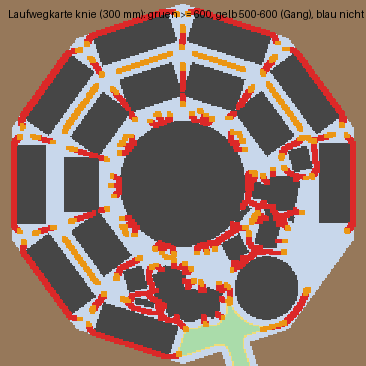
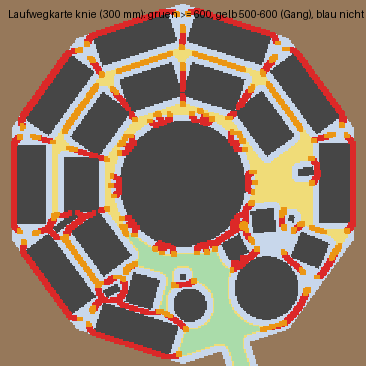
N-UNIFY-AUTOBAHN U5: Laufwegkarte ring_b2 nach der Technik (Knie rot 45, Kopf rot 8, 0 nicht erreichbar), Bilder technik-05 und section-sumpf1-05, Check-Texte

diff --git a/scripts/check_oasis_soll.py b/scripts/check_oasis_soll.py
@@ -171,13 +171,13 @@ def komponenten_hoehen(soll):
     zeilen.append(("nachspeise_ventil", "Rohrachse ueber Spiegel", n["ventil_h"], h("fish", "rand_ueber_fussboden_mm") - h("fish", "wsp_ueber_fussboden_mm") + 60, "Rand - Wsp + 60"))
     zeilen.append(("notluftpumpe", "Schlauch-Schleife (>= Rand + 50)", par("notluftpumpe")["schleife_z"], h("fish", "rand_ueber_fussboden_mm") + 100, "Rand + 100"))
     zeilen.append(("venturi_belueffter", "Achse ueber Fischtank-Spiegel", par("venturi_belueffter")["achse_ueber_spiegel"], 1650 - 400 - h("fish", "wsp_ueber_fussboden_mm"), "Lage-Probe Modell-Z 1650 - Fussboden 400 - Wsp"))
-    print("Komponenten (U2, Hoehenparameter der neuen Bauteile; Gesamtmodell ausstehend bis U4/U5, nicht Teil der Messung oben)")
+    print("Komponenten (U2, Hoehenparameter der neuen Bauteile aus den Komponentendateien, nicht Teil der Messung oben)")
     print("%-28s %-34s %8s %8s  %s" % ("Komponente", "Hoehenparameter", "Wert", "Soll", "Urteil"))
     for nm, was, ist, sl, why in zeilen:
         print("%-28s %-34s %8g %8g  %s (%s)" % (nm, was, ist, sl, "Komponente ok" if abs(ist - sl) < 1e-9 else "ABWEICHUNG Komponente", why))
     for nm in ("tauchpumpe_modul", "schlamm_sammelbehaelter", "regentank_5m3", "permakultur_modul"):
         print("%-28s %-34s %8s %8s  Komponente gebaut, Quelle legt keine Hoehe fest (stufe_status offen) / Hub aus Soll-Datei" % (nm, "-", "-", "-"))
-    print("  Gesamtmodell: ausstehend (Komponenten in dome-ring_b2.sc erst ab U4/U5)")
+    print("  Gesamtmodell: gesetzt ab U5 (Zaehlung und Wasserspiegel oben; Hoehenparameter hier aus den Komponentendateien)")
 
 
 def main():

diff --git a/docs/walkway-map-ring_b2.md b/docs/walkway-map-ring_b2.md
@@ -4,63 +4,60 @@ Erzeugt von `scripts/check_walkways_voll.py` aus `scripts/dome-script.json` (Ras
 
 ## Scheibe knie (0.3 m ueber Boden)
 
-### rot: 53 Engstellen
+### rot: 45 Engstellen
 
 - Weite ca. 100 mm bei -180 Grad / 5675 mm (Laenge ca. 6450 mm): Beet_aussen_800:2 x Wand
 - Weite ca. 100 mm bei -170 Grad / 2256 mm (Laenge ca. 500 mm): Tisch_innen:2 Fuss x Zentralpool
 - Weite ca. 100 mm bei -161 Grad / 2878 mm (Laenge ca. 350 mm): Beet_innen_933:2 x Beet_innen_933:3
-- Weite ca. 100 mm bei -161 Grad / 3510 mm (Laenge ca. 1100 mm): Beet_innen_933:2 x Beet_innen_933:3
+- Weite ca. 100 mm bei -161 Grad / 4159 mm (Laenge ca. 5600 mm): Beet_aussen_800:2 x Beet_aussen_800:3 | Beet_aussen_800:2 x Notluftpumpe:1
 - Weite ca. 100 mm bei -144 Grad / 5696 mm (Laenge ca. 5350 mm): Beet_aussen_800:3 x Wand
 - Weite ca. 100 mm bei -141 Grad / 2276 mm (Laenge ca. 1650 mm): Tisch_innen:3 Fuss x Tisch_innen:3 Fuss | Tisch_innen:3 Fuss x Zentralpool
+- Weite ca. 100 mm bei -119 Grad / 4487 mm (Laenge ca. 5750 mm): Beet_aussen_800:3 x Beet_aussen_800:4 | Beet_aussen_800:3 x Geblaese_Luft:2
 - Weite ca. 100 mm bei -108 Grad / 5660 mm (Laenge ca. 4250 mm): Beet_aussen_800:4 x Wand
 - Weite ca. 100 mm bei -106 Grad / 2263 mm (Laenge ca. 1800 mm): Tisch_innen:4 Fuss x Tisch_innen:4 Fuss | Tisch_innen:4 Fuss x Zentralpool
-- Weite ca. 100 mm bei -106 Grad / 2943 mm (Laenge ca. 400 mm): Pumpe_gross:3 x Tank_gross_t3:1
-- Weite ca. 100 mm bei -104 Grad / 4105 mm (Laenge ca. 8250 mm): Beet_aussen_800:4 x Booster_gross:3 | Beet_aussen_800:4 x Booster_gross:4
-- Weite ca. 100 mm bei -97 Grad / 2744 mm (Laenge ca. 450 mm): Pumpe_gross:3 x Tank_gross_t3:1
-- Weite ca. 100 mm bei -91 Grad / 2775 mm (Laenge ca. 450 mm): Pumpe_gross:3 x Tank_gross_t3:1
-- Weite ca. 100 mm bei -88 Grad / 2978 mm (Laenge ca. 450 mm): Pumpe_gross:3 x Ringstuetze_d75_B:1
-- Weite ca. 100 mm bei -87 Grad / 3380 mm (Laenge ca. 900 mm): Drittbecken x Ringstuetze_d75_B:1 | Drittbecken x Tank_gross_t3:1
-- Weite ca. 100 mm bei -82 Grad / 4625 mm (Laenge ca. 550 mm): Drittbecken x Pumpe_klein:2
-- Weite ca. 100 mm bei -80 Grad / 3580 mm (Laenge ca. 650 mm): Drittbecken x Pumpe_klein:1 | Drittbecken x Tank_klein:1
-- Weite ca. 100 mm bei -75 Grad / 4578 mm (Laenge ca. 350 mm): Pumpe_klein:2 x Tank_klein:1
-- Weite ca. 100 mm bei -69 Grad / 3877 mm (Laenge ca. 1950 mm): Pumpe_klein:1 x Tank_klein:1 | Pumpe_klein:1 x Zweitbecken
-- Weite ca. 100 mm bei -56 Grad / 2198 mm (Laenge ca. 4650 mm): Booster_gross:2 x Puffer_Klein:1 | Booster_gross:2 x Tisch_innen:6 Fuss
-- Weite ca. 100 mm bei -47 Grad / 3291 mm (Laenge ca. 5050 mm): Puffer_Klein:1 x Pumpe_klein:4 | Puffer_Klein:1 x Ringstuetze_d75_B:2
-- Weite ca. 100 mm bei -31 Grad / 3756 mm (Laenge ca. 300 mm): Pumpe_klein:4 x Tank_klein:2
-- Weite ca. 100 mm bei -15 Grad / 2772 mm (Laenge ca. 9500 mm): Booster_gross:1 x Booster_gross:2 | Booster_gross:1 x Pegelschacht_Podest:1
+- Weite ca. 100 mm bei -53 Grad / 3285 mm (Laenge ca. 2650 mm): Puffer_Klein:1 x Ringstuetze_d75_B:2 | Puffer_Klein:1 x Zweitbecken
+- Weite ca. 100 mm bei -47 Grad / 2229 mm (Laenge ca. 7400 mm): Podest_Vortex:1 x Puffer_Klein:1 | Podest_Vortex:1 x Tisch_innen:6 Fuss
 - Weite ca. 100 mm bei -1 Grad / 5625 mm (Laenge ca. 6450 mm): Beet_aussen_800:5 x Wand
-- Weite ca. 100 mm bei 3 Grad / 2678 mm (Laenge ca. 500 mm): Pegelschacht_Podest:1 x Tank_gross:1
-- Weite ca. 100 mm bei 3 Grad / 3732 mm (Laenge ca. 1250 mm): Feinfilter:1 x Pumpe_gross:2 | Feinfilter:1 x Tank_gross:1
-- Weite ca. 100 mm bei 6 Grad / 2993 mm (Laenge ca. 400 mm): Pumpe_gross:2 x Tank_gross:1
+- Weite ca. 100 mm bei 1 Grad / 2175 mm (Laenge ca. 1550 mm): Tisch_innen:7 Fuss x Tisch_innen:7 Fuss | Tisch_innen:7 Fuss x Zentralpool
+- Weite ca. 100 mm bei 5 Grad / 4391 mm (Laenge ca. 1800 mm): Beet_aussen_800:5 x Geblaese_Luft:1
 - Weite ca. 100 mm bei 35 Grad / 5597 mm (Laenge ca. 5300 mm): Beet_aussen_800:6 x Wand
 - Weite ca. 100 mm bei 38 Grad / 2175 mm (Laenge ca. 1450 mm): Tisch_innen:8 Fuss x Tisch_innen:8 Fuss | Tisch_innen:8 Fuss x Zentralpool
 - Weite ca. 100 mm bei 54 Grad / 2796 mm (Laenge ca. 450 mm): Beet_innen_933:4 x Beet_innen_933:5
 - Weite ca. 100 mm bei 54 Grad / 3435 mm (Laenge ca. 1550 mm): Beet_innen_933:4 x Beet_innen_933:5
+- Weite ca. 100 mm bei 73 Grad / 5582 mm (Laenge ca. 4300 mm): Beet_aussen_800:7 x Wand
+- Weite ca. 100 mm bei 75 Grad / 2153 mm (Laenge ca. 1800 mm): Tisch_innen:9 Fuss x Tisch_innen:9 Fuss | Tisch_innen:9 Fuss x Zentralpool
+- Weite ca. 100 mm bei 90 Grad / 3425 mm (Laenge ca. 1350 mm): Beet_innen_933:5 x Beet_innen_933:6
+- Weite ca. 100 mm bei 91 Grad / 2775 mm (Laenge ca. 550 mm): Beet_innen_933:5 x Beet_innen_933:6
+- Weite ca. 100 mm bei 109 Grad / 2198 mm (Laenge ca. 1600 mm): Tisch_innen:10 Fuss x Tisch_innen:10 Fuss | Tisch_innen:10 Fuss x Zentralpool
+- Weite ca. 100 mm bei 110 Grad / 5598 mm (Laenge ca. 5150 mm): Beet_aussen_800:8 x Wand
+- Weite ca. 100 mm bei 127 Grad / 3495 mm (Laenge ca. 1150 mm): Beet_innen_933:1 x Beet_innen_933:6
+- Weite ca. 100 mm bei 128 Grad / 2815 mm (Laenge ca. 350 mm): Beet_innen_933:1 x Beet_innen_933:6
+- Weite ca. 100 mm bei 145 Grad / 5638 mm (Laenge ca. 6950 mm): Beet_aussen_800:1 x Wand
+- Weite ca. 100 mm bei 146 Grad / 2198 mm (Laenge ca. 1500 mm): Tisch_innen:1 Fuss x Tisch_innen:1 Fuss | Tisch_innen:1 Fuss x Zentralpool
+- Weite ca. 100 mm bei 163 Grad / 2847 mm (Laenge ca. 300 mm): Beet_innen_933:1 x Beet_innen_933:2
+- Weite ca. 100 mm bei 164 Grad / 3465 mm (Laenge ca. 950 mm): Beet_innen_933:1 x Beet_innen_933:2
 
-### gelb: 80 Engstellen
+### gelb: 74 Engstellen
 
-- Weite ca. 442 mm bei -110 Grad / 2958 mm (Laenge ca. 300 mm): Feinfilter:2 x Tank_gross_t3:1 | Pumpe_gross:3 x Tank_gross_t3:1
-- Weite ca. 442 mm bei -97 Grad / 2595 mm (Laenge ca. 150 mm): Pumpe_gross:3 x Tank_gross_t3:1
-- Weite ca. 442 mm bei 19 Grad / 4459 mm (Laenge ca. 500 mm): Beet_aussen_800:5 x Beet_aussen_800:6 | Beet_aussen_800:5 x Feinfilter:1
 - Weite ca. 442 mm bei 90 Grad / 5125 mm (Laenge ca. 350 mm): Beet_aussen_800:7 x Beet_aussen_800:8
-- Weite ca. 484 mm bei -161 Grad / 3937 mm (Laenge ca. 300 mm): Beet_innen_933:2 x Beet_innen_933:3
-- Weite ca. 484 mm bei -161 Grad / 4570 mm (Laenge ca. 150 mm): Beet_aussen_800:2 x Beet_aussen_800:3
 - Weite ca. 484 mm bei -161 Grad / 5202 mm (Laenge ca. 300 mm): Beet_aussen_800:2 x Beet_aussen_800:3
 - Weite ca. 484 mm bei -160 Grad / 5679 mm (Laenge ca. 150 mm): Beet_aussen_800:3 x Wand
+- Weite ca. 484 mm bei -143 Grad / 4315 mm (Laenge ca. 3300 mm): Beet_aussen_800:3 x Beet_innen_933:3 | Beet_aussen_800:3 x Geblaese_Luft:2
 - Weite ca. 484 mm bei -124 Grad / 5693 mm (Laenge ca. 150 mm): Beet_aussen_800:4 x Wand
+- Weite ca. 484 mm bei -123 Grad / 3363 mm (Laenge ca. 900 mm): Beet_innen_933:3 x Tank_gross_t3:1
+- Weite ca. 484 mm bei -99 Grad / 4427 mm (Laenge ca. 400 mm): Beet_aussen_800:4 x Drittbecken | Beet_aussen_800:4 x Tank_gross_t3:1
+- Weite ca. 484 mm bei -95 Grad / 3440 mm (Laenge ca. 200 mm): Drittbecken x Ringstuetze_d75_B:1
 - Weite ca. 484 mm bei -92 Grad / 5728 mm (Laenge ca. 200 mm): Beet_aussen_800:4 x Wand
-- Weite ca. 484 mm bei -86 Grad / 2884 mm (Laenge ca. 150 mm): Pumpe_gross:3 x Ringstuetze_d75_B:1
-- Weite ca. 484 mm bei -80 Grad / 3374 mm (Laenge ca. 200 mm): Drittbecken x Pumpe_klein:1
-- Weite ca. 484 mm bei -67 Grad / 3710 mm (Laenge ca. 200 mm): Pumpe_klein:1 x Tank_klein:1 | Pumpe_klein:1 x Zweitbecken
 - Weite ca. 484 mm bei -58 Grad / 5626 mm (Laenge ca. 800 mm): Wand x Zweitbecken
-- Weite ca. 484 mm bei -38 Grad / 2776 mm (Laenge ca. 250 mm): Puffer_Klein:1 x Tank_klein:2
-- Weite ca. 484 mm bei -35 Grad / 4057 mm (Laenge ca. 200 mm): Pumpe_klein:4 x Zweitbecken
-- Weite ca. 484 mm bei -26 Grad / 2650 mm (Laenge ca. 850 mm): Booster_gross:1 x Booster_gross:2 | Booster_gross:1 x Pumpe_klein:3
-- Weite ca. 484 mm bei 5 Grad / 2635 mm (Laenge ca. 150 mm): Pegelschacht_Podest:1 x Tank_gross:1
-- Weite ca. 484 mm bei 8 Grad / 2348 mm (Laenge ca. 350 mm): Pegelschacht_Podest:1 x Tisch_innen:7 Fuss | Tisch_innen:7 Fuss x Zentralpool
-- Weite ca. 484 mm bei 15 Grad / 3390 mm (Laenge ca. 300 mm): Beet_innen_933:4 x Feinfilter:1
+- Weite ca. 484 mm bei -37 Grad / 2465 mm (Laenge ca. 550 mm): Podest_Vortex:1 x Puffer_Klein:1 | Podest_Vortex:1 x Tisch_innen:6 Fuss
+- Weite ca. 484 mm bei -37 Grad / 4965 mm (Laenge ca. 200 mm): Tank_gross:1 x Zweitbecken
+- Weite ca. 484 mm bei -35 Grad / 4057 mm (Laenge ca. 150 mm): Tank_gross:1 x Zweitbecken
+- Weite ca. 484 mm bei -25 Grad / 5582 mm (Laenge ca. 1000 mm): Tank_gross:1 x Wand
+- Weite ca. 484 mm bei -19 Grad / 4159 mm (Laenge ca. 250 mm): Ringstuetze_d75_B:3 x Tank_gross:1
+- Weite ca. 484 mm bei -19 Grad / 4744 mm (Laenge ca. 650 mm): Beet_aussen_800:5 x Tank_gross:1
+- Weite ca. 484 mm bei -16 Grad / 3465 mm (Laenge ca. 500 mm): Podest_Vortex:1 x Ringstuetze_d75_B:3
+- Weite ca. 484 mm bei 9 Grad / 2355 mm (Laenge ca. 150 mm): Tisch_innen:7 Fuss x Zentralpool
 - Weite ca. 484 mm bei 20 Grad / 5615 mm (Laenge ca. 150 mm): Beet_aussen_800:6 x Wand
-- Weite ca. 484 mm bei 21 Grad / 4193 mm (Laenge ca. 250 mm): Beet_innen_933:4 x Feinfilter:1
 - Weite ca. 484 mm bei 54 Grad / 5086 mm (Laenge ca. 450 mm): Beet_aussen_800:6 x Beet_aussen_800:7
 - Weite ca. 484 mm bei 66 Grad / 2318 mm (Laenge ca. 200 mm): Tisch_innen:9 Fuss x Zentralpool
 - Weite ca. 484 mm bei 90 Grad / 3875 mm (Laenge ca. 350 mm): Beet_innen_933:5 x Beet_innen_933:6
@@ -68,93 +65,58 @@ Erzeugt von `scripts/check_walkways_voll.py` aus `scripts/dome-script.json` (Ras
 - Weite ca. 484 mm bei 127 Grad / 3855 mm (Laenge ca. 250 mm): Beet_innen_933:1 x Beet_innen_933:6
 - Weite ca. 484 mm bei 128 Grad / 5626 mm (Laenge ca. 200 mm): Beet_aussen_800:1 x Wand
 - Weite ca. 484 mm bei 146 Grad / 2448 mm (Laenge ca. 550 mm): Beet_innen_933:1 x Tisch_innen:1 Fuss | Tisch_innen:1 Fuss x Tisch_innen:1 Fuss
+- Weite ca. 500 mm bei -165 Grad / 4421 mm (Laenge ca. 400 mm): Beet_aussen_800:2 x Notluftpumpe:1 | Beet_innen_933:2 x Notluftpumpe:1
 - Weite ca. 500 mm bei -163 Grad / 5711 mm (Laenge ca. 150 mm): Beet_aussen_800:2 x Wand
+- Weite ca. 500 mm bei -161 Grad / 2720 mm (Laenge ca. 150 mm): Beet_innen_933:2 x Beet_innen_933:3
+- Weite ca. 500 mm bei -141 Grad / 2526 mm (Laenge ca. 600 mm): Beet_innen_933:3 x Tisch_innen:3 Fuss | Tisch_innen:3 Fuss x Tisch_innen:3 Fuss
 
 ### Erreichbarkeit der Bauteile (Zelle mit >= 500 mm Gang <= 450 mm vom Grundriss)
 
-- erreichbar: Tank_klein:1
-- NICHT erreichbar: Tank_klein:2
-- NICHT erreichbar: Tank_gross:1
-- NICHT erreichbar: Tank_gross_t3:1
-- erreichbar: Pumpe_klein:1
-- erreichbar: Pumpe_klein:2
-- NICHT erreichbar: Pumpe_klein:3
-- NICHT erreichbar: Pumpe_klein:4
-- NICHT erreichbar: Pumpe_gross:1
-- NICHT erreichbar: Pumpe_gross:2
-- NICHT erreichbar: Pumpe_gross:3
-- NICHT erreichbar: Pumpe_gross:4
-- NICHT erreichbar: Beet_aussen_800:1
-- NICHT erreichbar: Beet_aussen_800:2
+- erreichbar: Tank_gross:1
+- erreichbar: Tank_gross_t3:1
+- NICHT erreichbar: Geblaese_Luft:2
 - NICHT erreichbar: Beet_aussen_800:3
-- NICHT erreichbar: Beet_aussen_800:5
-- NICHT erreichbar: Beet_aussen_800:6
-- NICHT erreichbar: Beet_aussen_800:7
-- NICHT erreichbar: Beet_aussen_800:8
-- NICHT erreichbar: Beet_innen_933:1
-- NICHT erreichbar: Beet_innen_933:2
-- NICHT erreichbar: Beet_innen_933:3
-- NICHT erreichbar: Beet_innen_933:4
-- NICHT erreichbar: Beet_innen_933:5
-- NICHT erreichbar: Beet_innen_933:6
-- NICHT erreichbar: Tisch_innen:1 Fuss
-- NICHT erreichbar: Tisch_innen:1 Fuss
-- NICHT erreichbar: Tisch_innen:2 Fuss
-- NICHT erreichbar: Tisch_innen:2 Fuss
-- NICHT erreichbar: Tisch_innen:3 Fuss
-- NICHT erreichbar: Tisch_innen:3 Fuss
-- NICHT erreichbar: Tisch_innen:4 Fuss
-- NICHT erreichbar: Tisch_innen:4 Fuss
-- NICHT erreichbar: Tisch_innen:5 Fuss
-- NICHT erreichbar: Tisch_innen:5 Fuss
 - NICHT erreichbar: Tisch_innen:6 Fuss
 - NICHT erreichbar: Tisch_innen:6 Fuss
-- NICHT erreichbar: Tisch_innen:7 Fuss
-- NICHT erreichbar: Tisch_innen:7 Fuss
-- NICHT erreichbar: Tisch_innen:8 Fuss
-- NICHT erreichbar: Tisch_innen:8 Fuss
-- NICHT erreichbar: Tisch_innen:9 Fuss
-- NICHT erreichbar: Tisch_innen:9 Fuss
-- NICHT erreichbar: Tisch_innen:10 Fuss
-- NICHT erreichbar: Tisch_innen:10 Fuss
-- NICHT erreichbar: Puffer_Klein:1
-- NICHT erreichbar: Feinfilter:1
-- NICHT erreichbar: Feinfilter:2
-- NICHT erreichbar: Ringstuetze_d75_B:1
+- erreichbar: Puffer_Klein:1
 - NICHT erreichbar: Ringstuetze_d75_B:2
-- NICHT erreichbar: Ringstuetze_d75_B:3
-- NICHT erreichbar: Pegelschacht_Podest:1
-- NICHT erreichbar: Pegelschacht_Podest:2
-- NICHT erreichbar: Booster_gross:1
-- NICHT erreichbar: Booster_gross:2
-- NICHT erreichbar: Booster_gross:3
-- NICHT erreichbar: Booster_gross:4
-- NICHT erreichbar: Zentralpool
+- erreichbar: Zentralpool
 - erreichbar: Zweitbecken
 - erreichbar: Drittbecken
 
 ## Scheibe kopf (1.7 m ueber Boden)
 
-### rot: 6 Engstellen
+### rot: 8 Engstellen
 
-- Weite ca. 100 mm bei -97 Grad / 4152 mm (Laenge ca. 750 mm): Drittbecken x Tank_gross_t3:1
-- Weite ca. 100 mm bei -90 Grad / 2925 mm (Laenge ca. 550 mm): Ringstuetze_d75_B:1 x Tank_gross_t3:1
-- Weite ca. 100 mm bei -87 Grad / 3380 mm (Laenge ca. 900 mm): Drittbecken x Ringstuetze_d75_B:1 | Drittbecken x Tank_gross_t3:1
 - Weite ca. 142 mm bei -54 Grad / 3325 mm (Laenge ca. 1500 mm): Ringstuetze_d75_B:2 x Zweitbecken
-- Weite ca. 200 mm bei -16 Grad / 3719 mm (Laenge ca. 750 mm): Ringstuetze_d75_B:3 x Tank_gross:1
 - Weite ca. 242 mm bei -50 Grad / 5643 mm (Laenge ca. 3350 mm): Wand x Zweitbecken
+- Weite ca. 242 mm bei -36 Grad / 4505 mm (Laenge ca. 1250 mm): Tank_gross:1 x Zweitbecken
+- Weite ca. 284 mm bei -31 Grad / 5548 mm (Laenge ca. 1950 mm): Tank_gross:1 x Wand
+- Weite ca. 300 mm bei -90 Grad / 3375 mm (Laenge ca. 900 mm): Drittbecken x Ringstuetze_d75_B:1
+- Weite ca. 300 mm bei -20 Grad / 3543 mm (Laenge ca. 1050 mm): Ringstuetze_d75_B:3 x Tank_klein:1
+- Weite ca. 342 mm bei -25 Grad / 2338 mm (Laenge ca. 1000 mm): Tank_klein:1 x Zentralpool
+- Weite ca. 384 mm bei -21 Grad / 4100 mm (Laenge ca. 550 mm): Ringstuetze_d75_B:3 x Tank_gross:1
 
-### gelb: 6 Engstellen
+### gelb: 14 Engstellen
 
+- Weite ca. 484 mm bei -95 Grad / 3440 mm (Laenge ca. 200 mm): Drittbecken x Ringstuetze_d75_B:1
 - Weite ca. 484 mm bei -58 Grad / 5626 mm (Laenge ca. 800 mm): Wand x Zweitbecken
 - Weite ca. 484 mm bei -48 Grad / 3220 mm (Laenge ca. 150 mm): Ringstuetze_d75_B:2 x Zweitbecken
-- Weite ca. 484 mm bei -18 Grad / 3447 mm (Laenge ca. 200 mm): Ringstuetze_d75_B:3 x Tank_gross:1
+- Weite ca. 484 mm bei -37 Grad / 4965 mm (Laenge ca. 200 mm): Tank_gross:1 x Zweitbecken
+- Weite ca. 484 mm bei -35 Grad / 4057 mm (Laenge ca. 150 mm): Tank_gross:1 x Zweitbecken
+- Weite ca. 484 mm bei -31 Grad / 2367 mm (Laenge ca. 300 mm): Tank_klein:1 x Zentralpool
+- Weite ca. 484 mm bei -25 Grad / 5582 mm (Laenge ca. 1000 mm): Tank_gross:1 x Wand
+- Weite ca. 484 mm bei -19 Grad / 4159 mm (Laenge ca. 250 mm): Ringstuetze_d75_B:3 x Tank_gross:1
+- Weite ca. 484 mm bei -18 Grad / 2388 mm (Laenge ca. 300 mm): Tank_klein:1 x Zentralpool
 - Weite ca. 500 mm bei -84 Grad / 3291 mm (Laenge ca. 200 mm): Drittbecken x Ringstuetze_d75_B:1
 - Weite ca. 500 mm bei -42 Grad / 5454 mm (Laenge ca. 400 mm): Wand x Zweitbecken
-- Weite ca. 542 mm bei -98 Grad / 4313 mm (Laenge ca. 150 mm): Drittbecken x Tank_gross_t3:1
+- Weite ca. 500 mm bei -24 Grad / 3704 mm (Laenge ca. 200 mm): Ringstuetze_d75_B:3 x Tank_klein:1
+- Weite ca. 500 mm bei -23 Grad / 3998 mm (Laenge ca. 200 mm): Ringstuetze_d75_B:3 x Tank_gross:1
+- Weite ca. 500 mm bei -16 Grad / 3451 mm (Laenge ca. 300 mm): Ringstuetze_d75_B:3 x Tank_klein:1
 
 ### Erreichbarkeit der Bauteile (Zelle mit >= 500 mm Gang <= 450 mm vom Grundriss)
 
+- erreichbar: Tank_klein:1
 - erreichbar: Tank_gross:1
 - erreichbar: Tank_gross_t3:1
 - erreichbar: Zentralpool
@@ -163,7 +125,7 @@ Erzeugt von `scripts/check_walkways_voll.py` aus `scripts/dome-script.json` (Ras
 
 ## Zusammenfassung
 
-- knie rot: 53 Engstellen
-- knie gelb: 80 Engstellen
-- kopf rot: 6 Engstellen
-- kopf gelb: 6 Engstellen
+- knie rot: 45 Engstellen
+- knie gelb: 74 Engstellen
+- kopf rot: 8 Engstellen
+- kopf gelb: 14 Engstellen
